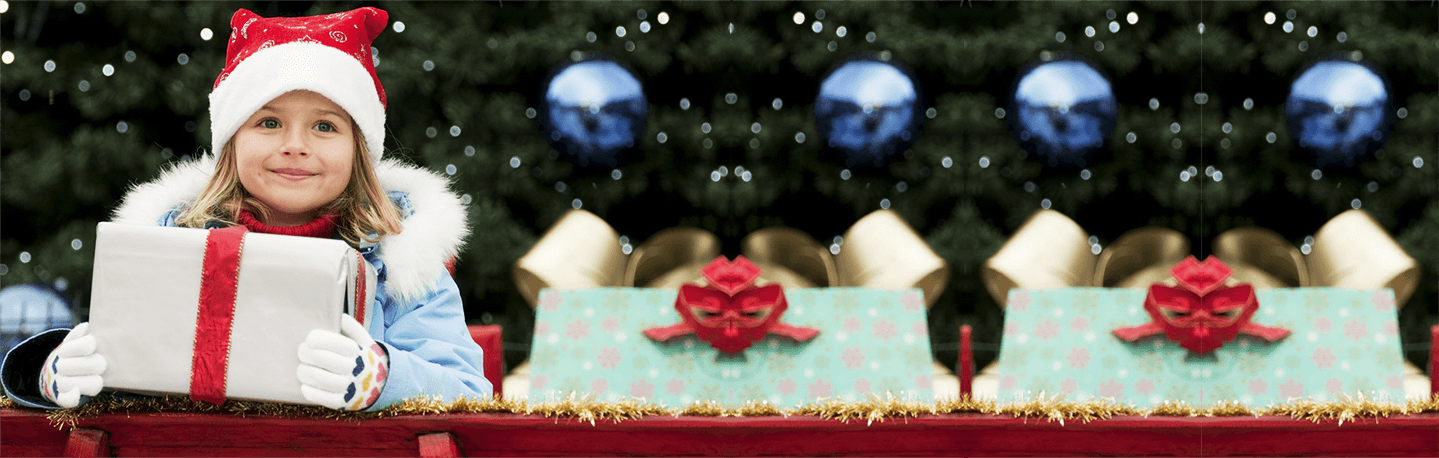
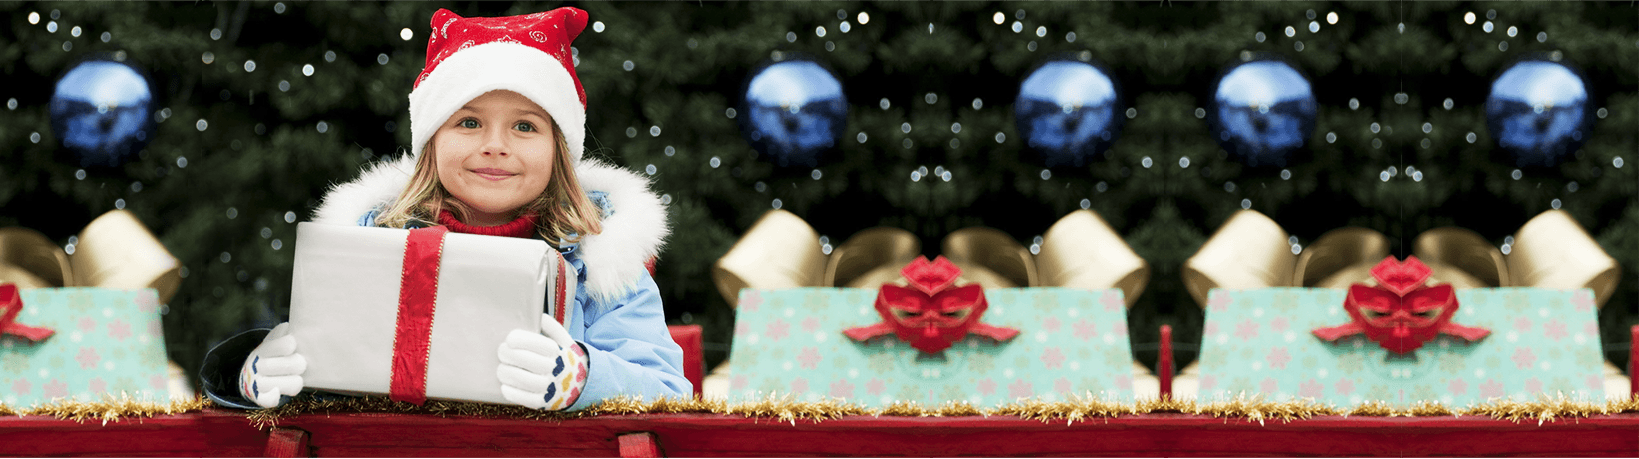
Замінити background Section01, Видалити лейбу з модального вікна "Заказать обратный звонок"

diff --git a/index.html b/index.html
@@ -364,8 +364,7 @@
     <div class="modal-content modal-content-callbac">
     <button type="button" class="close close-position" data-dismiss="modal" aria-hidden="true">&times;</button>
       <div class="callback-modal text-rubric nowrap-div">
-        <img class="modal-discounts-lable-callback" src="img/discouts_form_lable01.png" alt="Discouts Lable">
-        <div class="font26-B nowrap-div">Заказать обратный звонок</div>
+        <div class="callback-modal-text font26-B nowrap-div">Заказать обратный звонок</div>
 
         <div class="form-callback text-rubric">
           <form class="form-horizontal" role="form">

diff --git a/css/main.css b/css/main.css
@@ -482,6 +482,10 @@ footer .width-frame-text {
 	padding-bottom: 50px;
 }
 
+.callback-modal-text {
+	margin-top: 54px;
+}
+
 .modal-discounts-lable {
 	margin-top: -17px;
 	margin-bottom: 90px;
